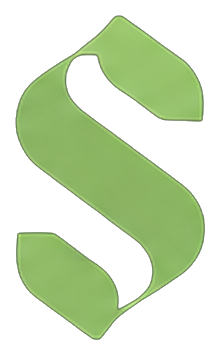
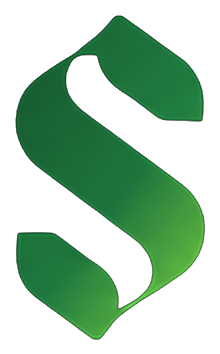
style: refine Synapse green color system and brand assets

diff --git a/src/styles/global.css b/src/styles/global.css
@@ -1,33 +1,39 @@
 @import 'tailwindcss';
 
 :root {
-  --canvas: #f8faf8;
+  --canvas: #f7f8f5;
   --surface: #ffffff;
-  --subtle: #f1f4f1;
-  --text: #111813;
-  --muted: #5a665b;
-  --border: #e2e8e1;
-  --accent: #1e7039;
-  --accent-hover: #175a2d;
+  --subtle: #edf1ed;
+  --text: #101713;
+  --muted: #667068;
+  --border: #dde3dd;
+  --accent: #1f7a3f;
+  --accent-hover: #14532d;
   --accent-text: #ffffff;
-  --soft: #eaf3ec;
-  --shadow: 0 12px 40px rgba(17, 24, 18, 0.06);
-  --glow: rgba(30, 112, 57, 0.16);
+  --bright-accent: #8fea45;
+  --deep-green: #14532d;
+  --soft: #edf7ee;
+  --shadow: 0 12px 40px rgba(16, 23, 19, 0.06);
+  --glow: rgba(31, 122, 63, 0.16);
+  --accent-glow: rgba(143, 234, 69, 0.18);
   color-scheme: light;
 }
 :root[data-theme='dark'] {
-  --canvas: #080b08;
-  --surface: #121612;
-  --subtle: #1a2018;
-  --text: #f4f2eb;
-  --muted: #92998e;
-  --border: #253023;
-  --accent: #afd97c;
-  --accent-hover: #bee68d;
-  --accent-text: #090e08;
-  --soft: #172115;
+  --canvas: #0d120f;
+  --surface: #121a15;
+  --subtle: #17221b;
+  --text: #f3f7f3;
+  --muted: #9ba69d;
+  --border: #243127;
+  --accent: #55b86b;
+  --accent-hover: #439755;
+  --accent-text: #0d120f;
+  --bright-accent: #9bef4a;
+  --deep-green: #2d7a45;
+  --soft: #16271a;
   --shadow: 0 12px 40px rgba(0, 0, 0, 0.5);
-  --glow: rgba(175, 217, 124, 0.2);
+  --glow: rgba(85, 184, 107, 0.2);
+  --accent-glow: rgba(155, 239, 74, 0.22);
   color-scheme: dark;
 }
 * {
@@ -184,7 +190,14 @@ main {
   background: var(--accent-hover);
   border-color: var(--accent-hover);
   color: var(--accent-text);
-  box-shadow: 0 4px 14px var(--glow);
+  box-shadow:
+    0 4px 14px var(--glow),
+    0 0 0 3px rgba(143, 234, 69, 0.12);
+}
+:root[data-theme='dark'] .button.primary:hover {
+  box-shadow:
+    0 4px 14px var(--glow),
+    0 0 0 3px rgba(155, 239, 74, 0.15);
 }
 .button.primary:active {
   background: var(--accent);
@@ -867,6 +880,14 @@ html.reveal-enabled
   border-color: color-mix(in srgb, var(--accent) 40%, var(--border));
   transform: translateY(-3px);
   box-shadow: 0 12px 30px #1b19310c;
+}
+.model-card.selected {
+  border-color: rgba(31, 122, 63, 0.35);
+  background: #f9fcf9;
+}
+:root[data-theme='dark'] .model-card.selected {
+  border-color: rgba(85, 184, 107, 0.4);
+  background: #141f17;
 }
 .card-top {
   display: flex;
@@ -2316,15 +2337,15 @@ th {
 .effort-badge.openrouter-badge {
   margin-left: auto;
   white-space: nowrap;
-  background: rgba(16, 185, 129, 0.12);
-  color: #047857;
-  border-color: rgba(16, 185, 129, 0.3);
+  background: var(--soft);
+  color: var(--accent);
+  border-color: color-mix(in srgb, var(--accent) 30%, var(--border));
   font-size: 11px;
 }
 :root[data-theme='dark'] .effort-badge.openrouter-badge {
-  background: rgba(16, 185, 129, 0.18);
-  color: #34d399;
-  border-color: rgba(16, 185, 129, 0.4);
+  background: var(--soft);
+  color: var(--accent);
+  border-color: color-mix(in srgb, var(--accent) 40%, var(--border));
 }
 .effort-control-group {
   display: flex;
@@ -2679,15 +2700,15 @@ th {
 }
 
 .control-btn.active {
-  background: #2563eb;
-  color: #ffffff;
-  border-color: #2563eb;
+  background: var(--accent);
+  color: var(--accent-text);
+  border-color: var(--accent);
   font-weight: 600;
 }
 
 .control-btn.highlight {
-  border-color: #2563eb;
-  color: #2563eb;
+  border-color: var(--accent);
+  color: var(--accent);
 }
 
 .control-select-wrapper {
@@ -2894,11 +2915,11 @@ th {
 }
 
 .category-pill.active {
-  background: #2563eb;
-  color: #ffffff;
-  border-color: #2563eb;
+  background: var(--accent);
+  color: var(--accent-text);
+  border-color: var(--accent);
   font-weight: 600;
-  box-shadow: 0 1px 3px rgba(37, 99, 235, 0.25);
+  box-shadow: 0 1px 3px var(--glow);
 }
 
 /* Table card */
@@ -2999,7 +3020,7 @@ table.leaderboard-table thead th.th-sortable:hover {
 }
 
 .th-sort-button:focus-visible {
-  outline: 2px solid #2563eb;
+  outline: 2px solid var(--accent);
   outline-offset: -2px;
 }
 
@@ -3045,11 +3066,11 @@ table.leaderboard-table thead th.th-sortable:hover {
 
 .sort-icon-wrap.active {
   opacity: 1;
-  color: #2563eb;
+  color: var(--accent);
 }
 
 :root[data-theme='dark'] .sort-icon-wrap.active {
-  color: #60a5fa;
+  color: var(--accent);
 }
 
 .th-content {
@@ -3072,7 +3093,7 @@ table.leaderboard-table thead th.th-sortable:hover {
 .sort-indicator {
   font-size: 12px;
   line-height: 1;
-  color: #2563eb;
+  color: var(--accent);
 }
 
 .th-expand,
@@ -3116,34 +3137,34 @@ table.leaderboard-table thead th.th-sortable:hover {
 
 /* Sorted column & top 5 cells */
 table.leaderboard-table td.col-sorted {
-  background-color: #eff6ff;
+  background-color: var(--soft);
   font-weight: 600;
 }
 
 table.leaderboard-table th.col-sorted {
-  background-color: #dbeafe;
-  color: #1e40af;
+  background-color: color-mix(in srgb, var(--accent) 12%, var(--surface));
+  color: var(--accent);
 }
 
 :root[data-theme='dark'] table.leaderboard-table td.col-sorted {
-  background-color: rgba(59, 130, 246, 0.12);
+  background-color: var(--soft);
   font-weight: 600;
 }
 
 :root[data-theme='dark'] table.leaderboard-table th.col-sorted {
-  background-color: rgba(59, 130, 246, 0.22);
-  color: #93c5fd;
+  background-color: color-mix(in srgb, var(--accent) 20%, var(--surface));
+  color: var(--accent);
 }
 
 .cell-top5 {
-  background-color: #ede9fe;
-  color: #4338ca;
+  background-color: color-mix(in srgb, var(--accent) 14%, var(--soft));
+  color: var(--accent-hover);
   font-weight: 600;
 }
 
 :root[data-theme='dark'] .cell-top5 {
-  background-color: rgba(139, 92, 246, 0.22);
-  color: #c4b5fd;
+  background-color: color-mix(in srgb, var(--accent) 24%, var(--soft));
+  color: var(--accent);
 }
 
 table.leaderboard-table tbody td {
@@ -3163,7 +3184,7 @@ table.leaderboard-table tbody tr.leaderboard-row:hover {
 }
 
 table.leaderboard-table tbody tr.leaderboard-row:hover .expand-caret-btn {
-  color: #2563eb;
+  color: var(--accent);
 }
 
 table.leaderboard-table tbody tr.leaderboard-row.row-selected {
@@ -3189,11 +3210,11 @@ table.leaderboard-table tbody tr.leaderboard-row.row-selected {
 }
 
 table.leaderboard-table td.col-sorted.td-date {
-  color: #1e40af;
+  color: var(--accent);
 }
 
 :root[data-theme='dark'] table.leaderboard-table td.col-sorted.td-date {
-  color: #93c5fd;
+  color: var(--accent);
 }
 
 .expand-caret-btn {
@@ -3212,13 +3233,13 @@ table.leaderboard-table td.col-sorted.td-date {
 }
 
 .expand-caret-btn:hover {
-  color: #2563eb;
+  color: var(--accent);
   background: var(--subtle);
 }
 
 .expand-caret-btn.rotated {
   transform: rotate(90deg);
-  color: #2563eb;
+  color: var(--accent);
 }
 
 .model-cell-content {
@@ -3235,7 +3256,7 @@ table.leaderboard-table td.col-sorted.td-date {
 }
 
 .model-link-title:hover {
-  color: #2563eb;
+  color: var(--accent);
   text-decoration: underline;
 }
 
@@ -3244,17 +3265,17 @@ table.leaderboard-table td.col-sorted.td-date {
   font-weight: 600;
   padding: 1px 6px;
   border-radius: 4px;
-  border: 1px solid #10b981;
-  color: #059669;
-  background: rgba(16, 185, 129, 0.08);
+  border: 1px solid color-mix(in srgb, var(--accent) 30%, var(--border));
+  color: var(--accent);
+  background: var(--soft);
   text-transform: lowercase;
   line-height: 1.4;
 }
 
 :root[data-theme='dark'] .badge-open {
-  color: #34d399;
-  border-color: #059669;
-  background: rgba(5, 150, 105, 0.15);
+  color: var(--accent);
+  border-color: color-mix(in srgb, var(--accent) 40%, var(--border));
+  background: var(--soft);
 }
 
 .model-org-sub {

diff --git a/src/components/ModelCard.tsx b/src/components/ModelCard.tsx
@@ -43,7 +43,7 @@ export default function ModelCard({
   const speedTps = stats.speedTokensPerSec;
 
   return (
-    <article className="model-card">
+    <article className={`model-card ${selected ? 'selected' : ''}`.trim()}>
       <div className="card-top">
         <div className="provider-badge">
           <ProviderLogo provider={model.provider} size={16} />
